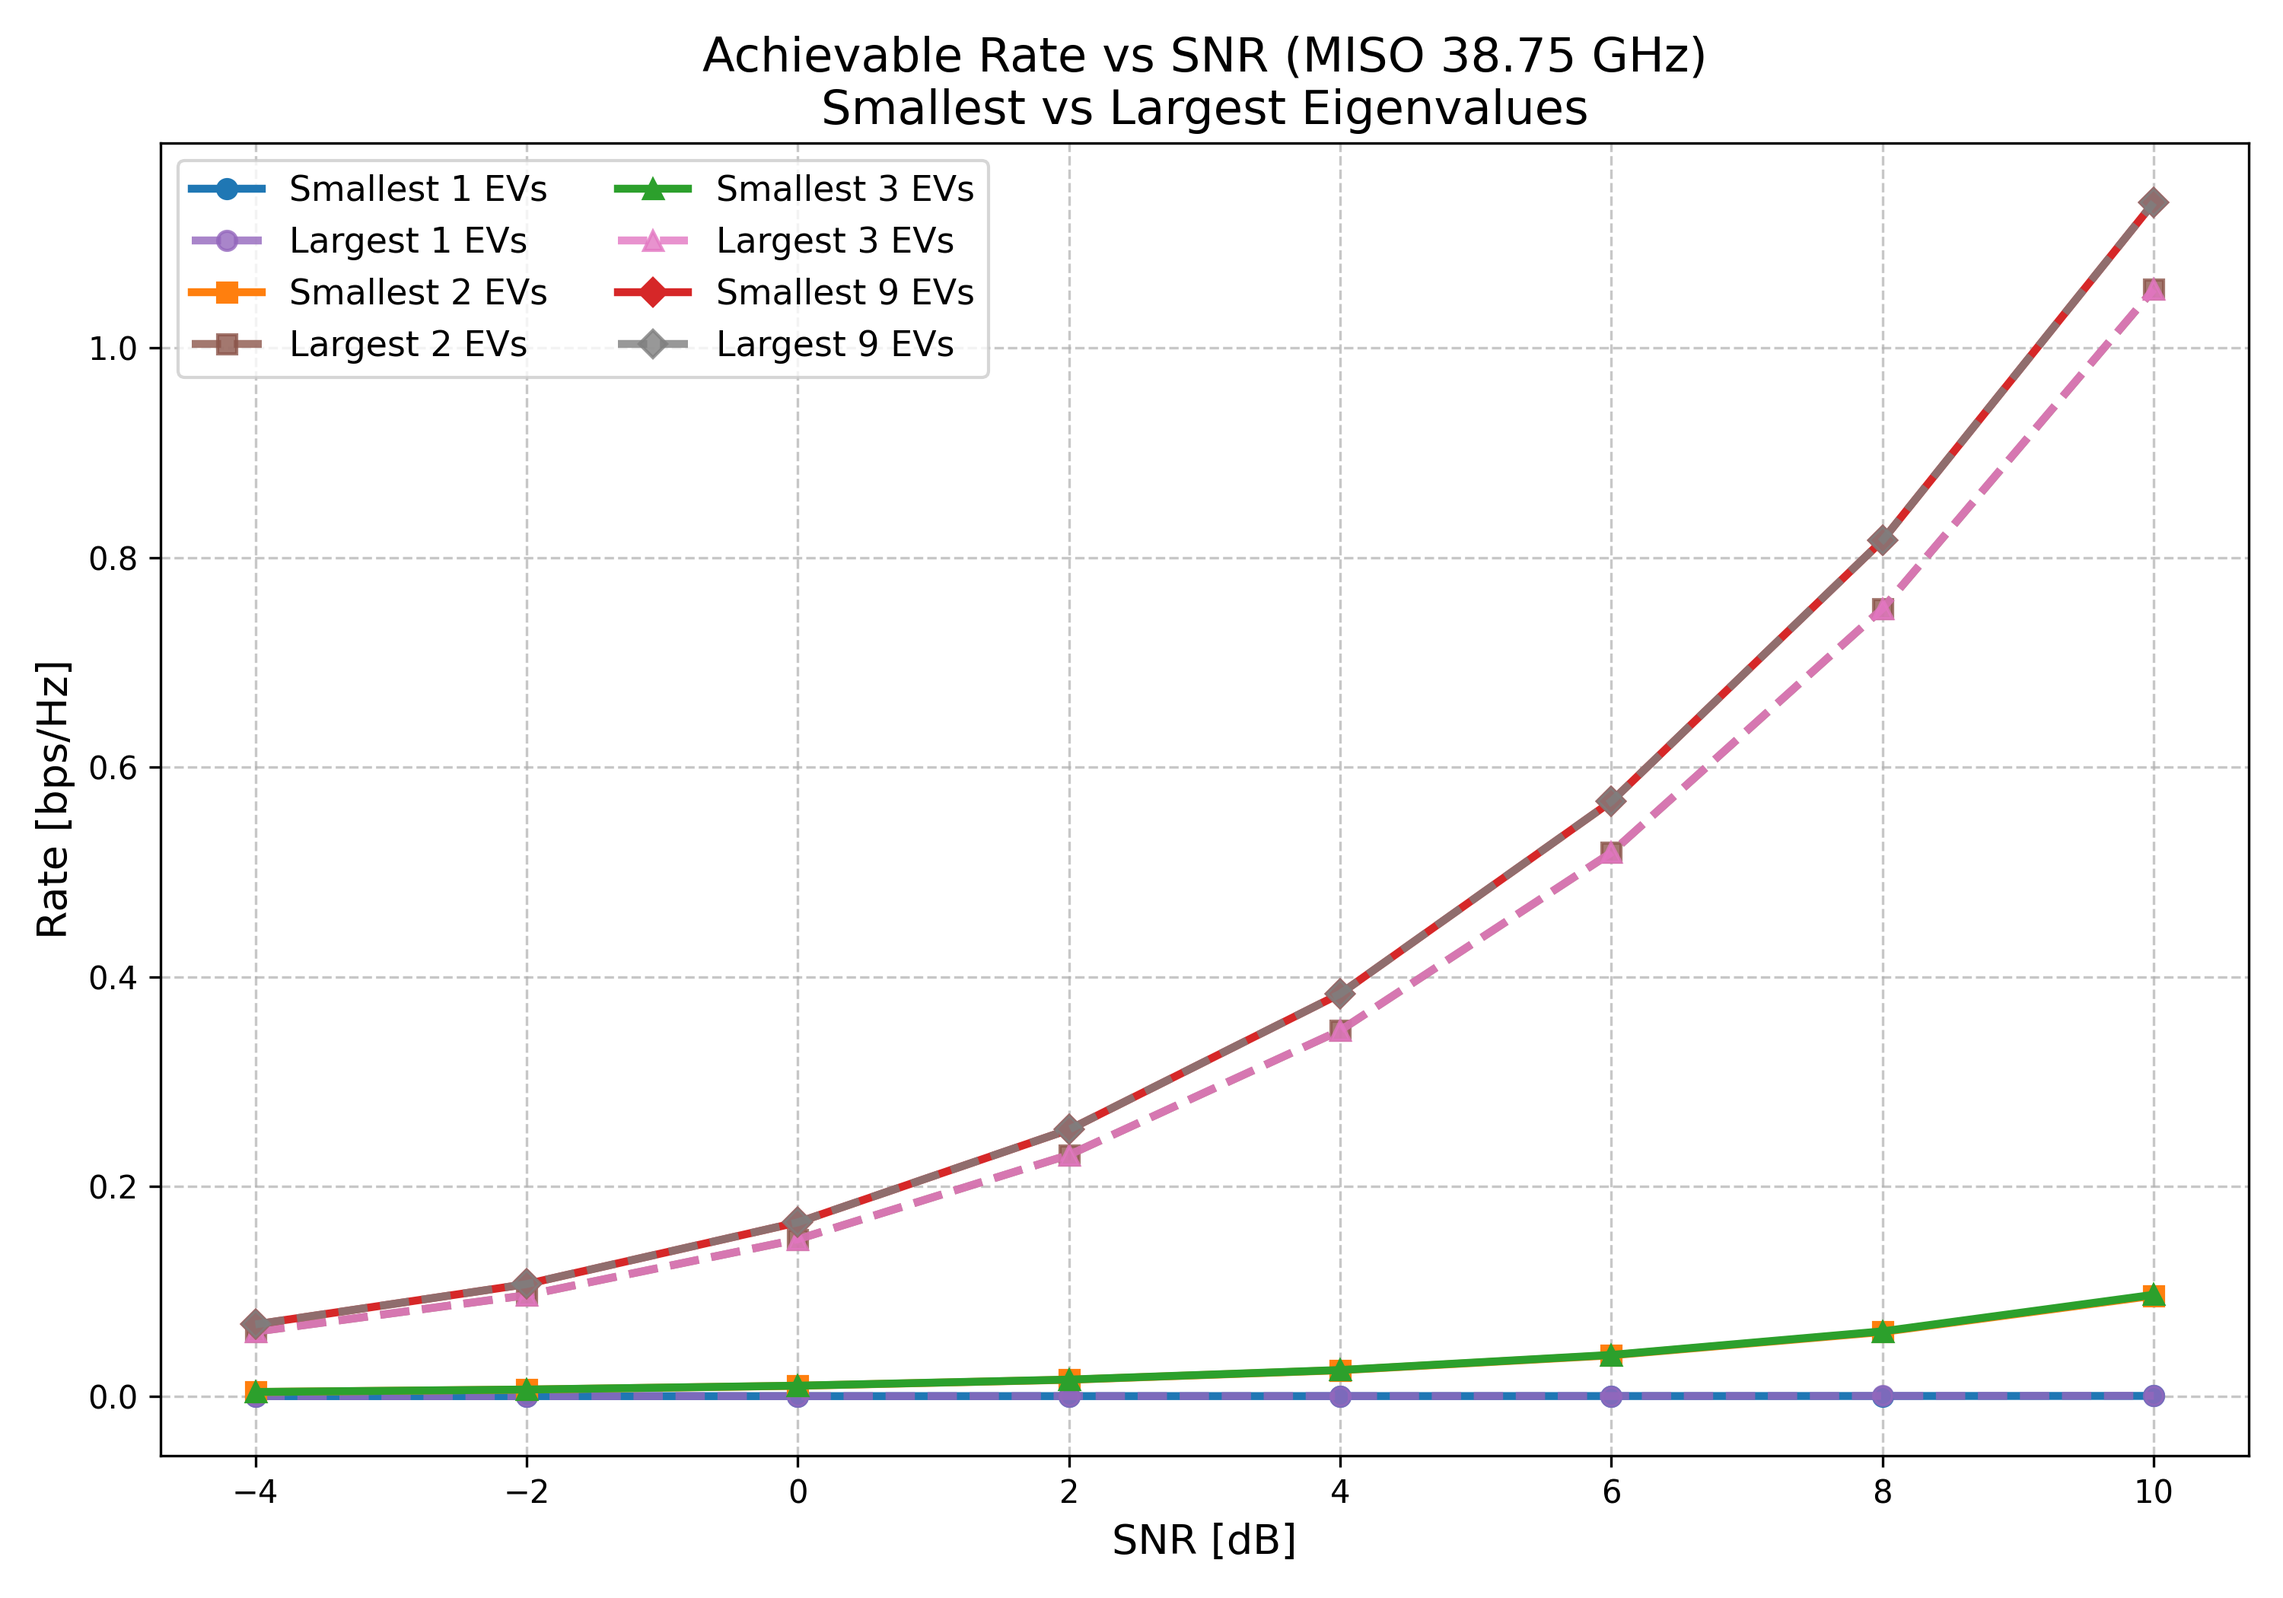
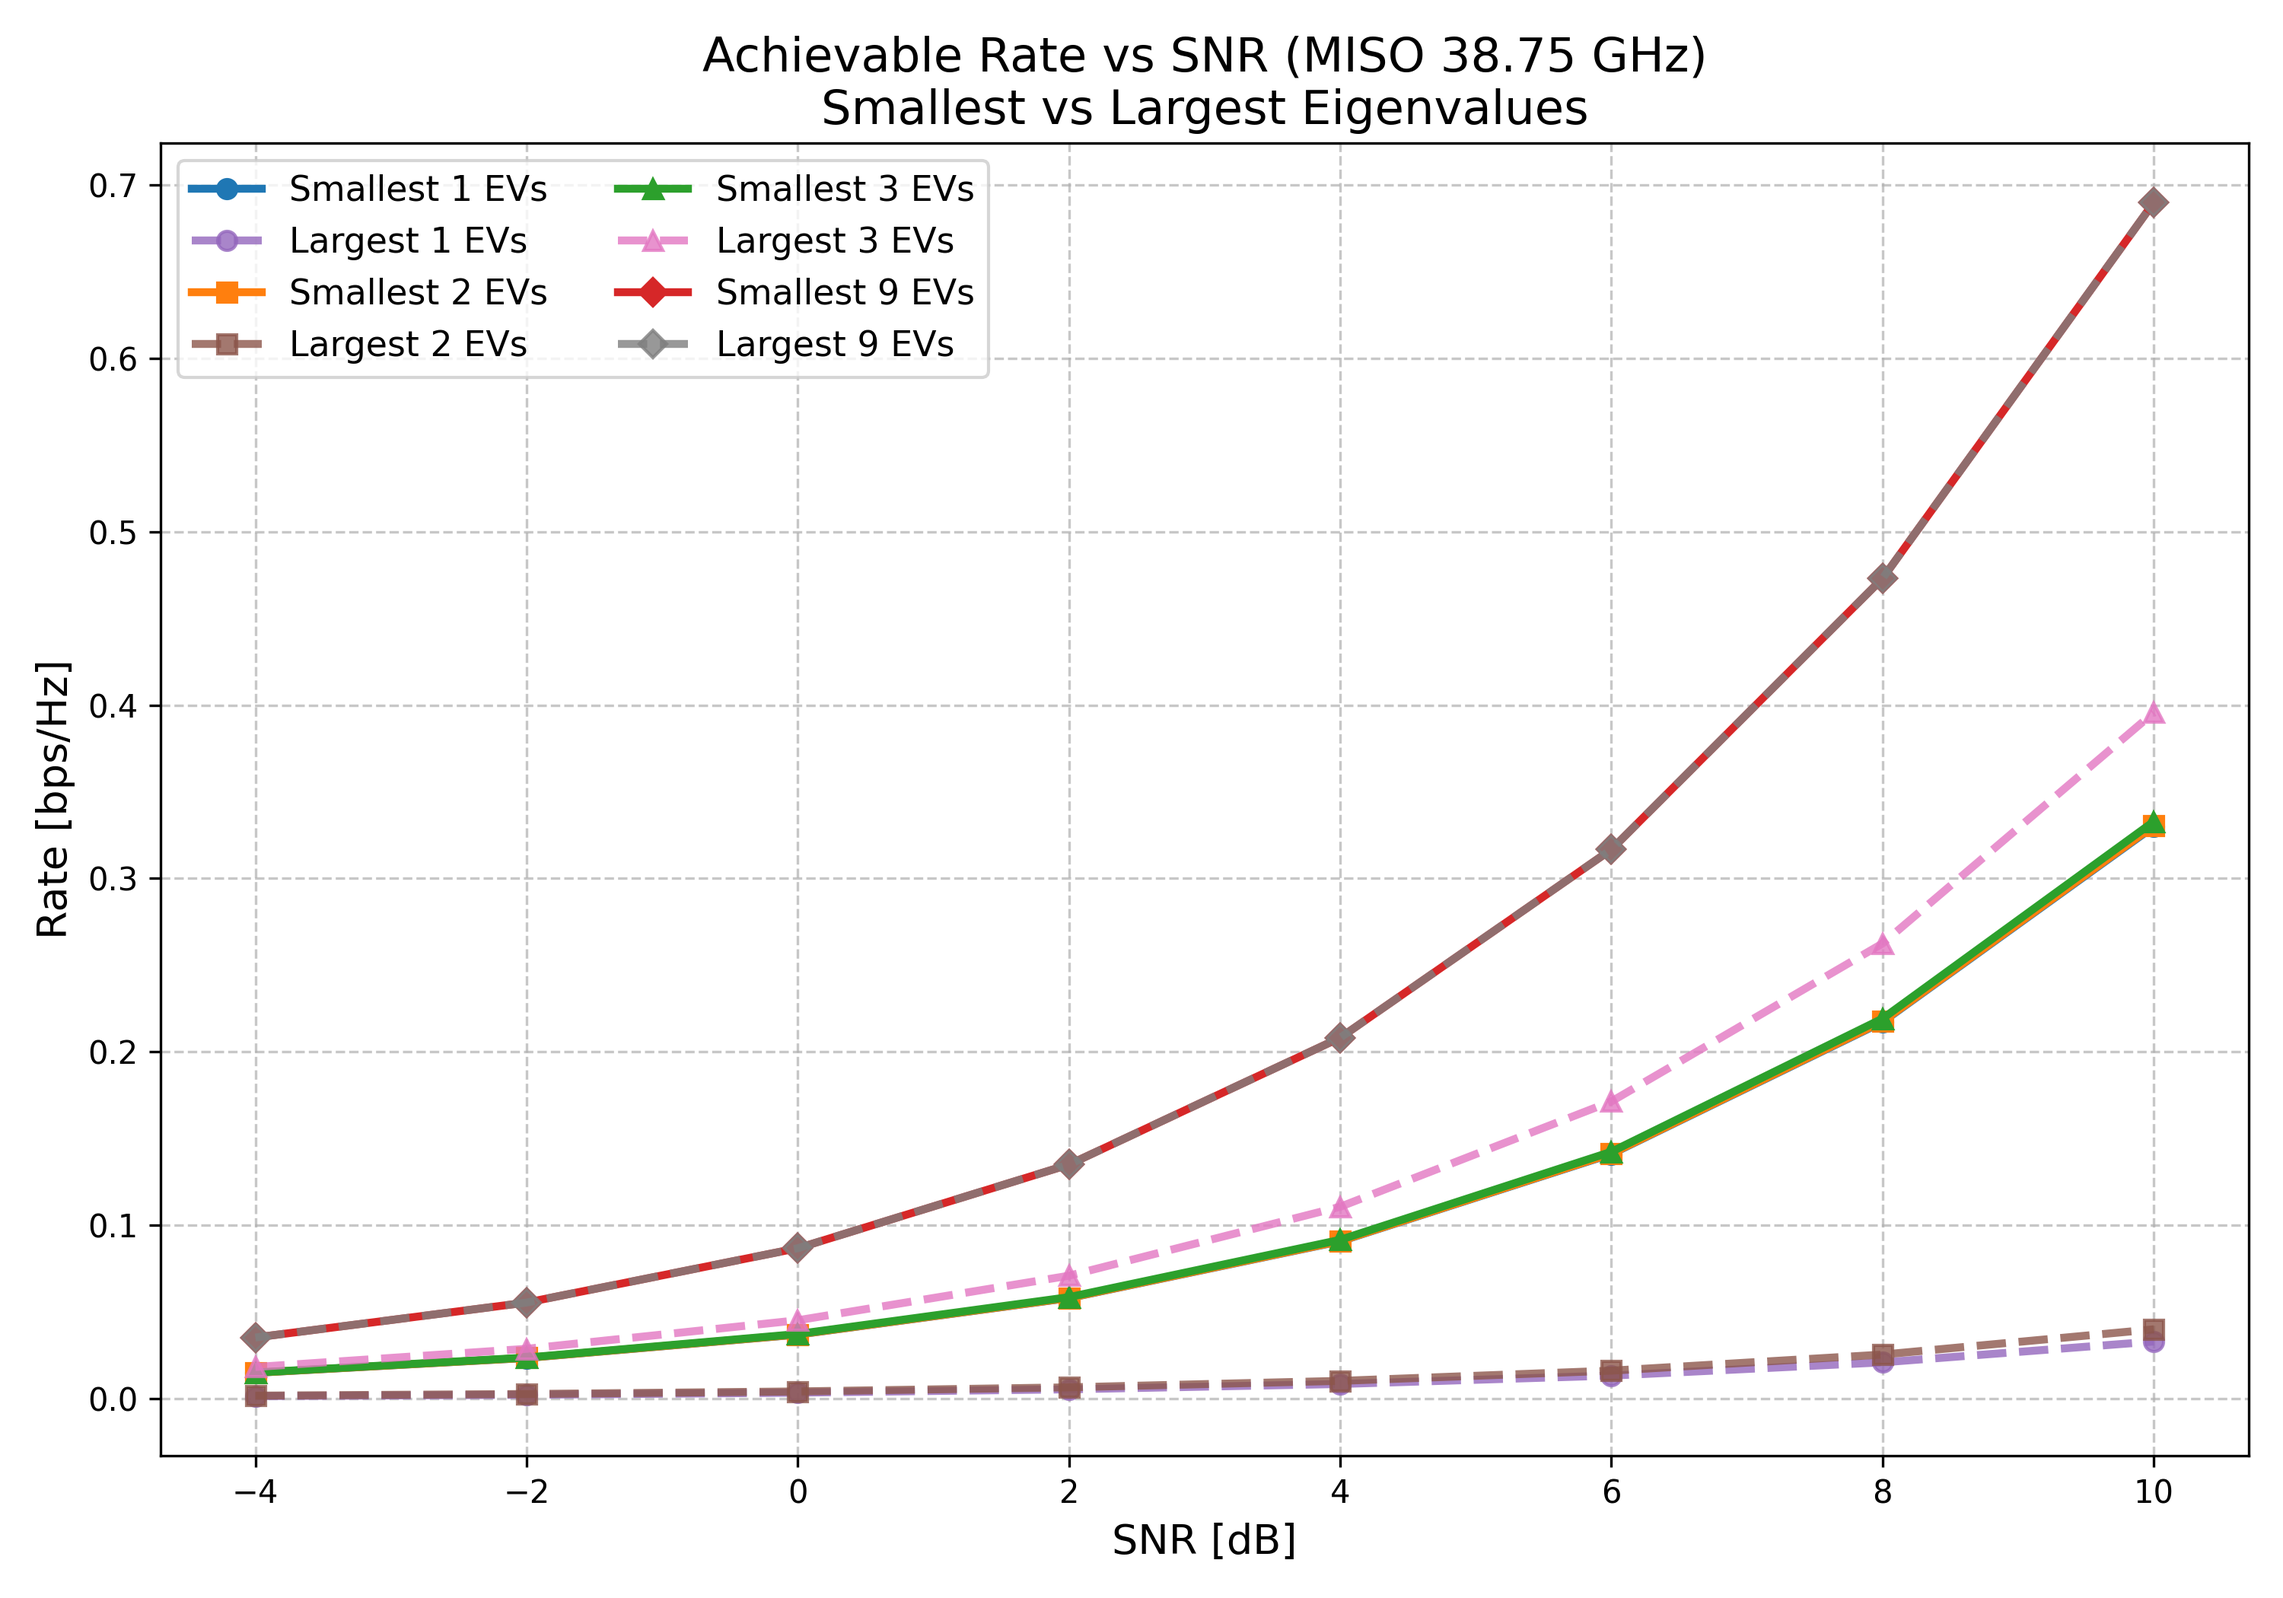
feat(UPA): adjust substrate overlapping, smallest & largest 3 eigenvalues still close to 0

diff --git a/small_scale_channel_tracking/data/ant_config_finetuning/plot_miso_smallest_vs_largest.py b/small_scale_channel_tracking/data/ant_config_finetuning/plot_miso_smallest_vs_largest.py
@@ -8,30 +8,29 @@ import matplotlib.pyplot as plt
 # ==========================================
 # 1. Configuration
 # ==========================================
-# Modify these if your file names use 2.06 GHz instead
 CENTER_FREQ_STR = "38.75"  
 CHANNEL_FREQ_GHZ = 39
 
-TX_DIM = [3, 3]
+TX_DIM = [7, 7]
 RX_DIM = [1, 1]
-N_T = TX_DIM[0] * TX_DIM[1] # 49
+N_T = TX_DIM[0] * TX_DIM[1] # Dynamically calculates 9 or 49
 
 Z0 = 50 
 SNR_dB_Range = np.arange(-4, 12, 2)
-RT_LIST = [1, 2, 3, 9]
+
+# Dynamically set the list to use 1, 2, 3, and the full array size (N_T)
+RT_LIST = [1, 2, 3, N_T]
 
 # --- File Paths ---
 SCRIPT_DIR = os.path.dirname(os.path.abspath(__file__))
 CHAN_DIR = os.path.join(SCRIPT_DIR, "..", "channel")
 
-Z_FILE_TX = os.path.join(SCRIPT_DIR, "Z_results", f"3x3_UPA_{CENTER_FREQ_STR}GHz_Z.mat")
-EIGEN_FILE_TX = os.path.join(SCRIPT_DIR, "eigen_result", f"3x3_UPA_{CENTER_FREQ_STR}GHz_eigen.mat")
+Z_FILE_TX = os.path.join(SCRIPT_DIR, "Z_results", f"{TX_DIM[0]}x{TX_DIM[1]}_UPA_{CENTER_FREQ_STR}GHz_Z.mat")
+EIGEN_FILE_TX = os.path.join(SCRIPT_DIR, "eigen_result", f"{TX_DIM[0]}x{TX_DIM[1]}_UPA_{CENTER_FREQ_STR}GHz_eigen.mat")
 
-# Adjust the channel file name depending on which script you used to generate the channel
-CHANNEL_FILE = os.path.join(CHAN_DIR, f"channel_data_SC_{CHANNEL_FREQ_GHZ}GHz_3x3Tx_1x1Rx_30000samples.mat")
-if not os.path.exists(CHANNEL_FILE):
-    # Fallback to the SC-prefixed 1,000,000 samples file if the 3k one isn't found
-    CHANNEL_FILE = os.path.join(CHAN_DIR, f"channel_data_SC_{CHANNEL_FREQ_GHZ}GHz_3x3Tx_1x1Rx_3000samples.mat")
+CHANNEL_FILE = os.path.join(CHAN_DIR, f"channel_data_SC_{CHANNEL_FREQ_GHZ}GHz_{TX_DIM[0]}x{TX_DIM[1]}Tx_1x1Rx_30000samples.mat")
+# if not os.path.exists(CHANNEL_FILE):
+#     CHANNEL_FILE = os.path.join(CHAN_DIR, f"channel_data_SC_{CHANNEL_FREQ_GHZ}GHz_{TX_DIM[0]}x{TX_DIM[1]}Tx_1x1Rx_3000samples.mat")
 
 # ==========================================
 # 2. Helper Functions
@@ -75,11 +74,11 @@ def main():
     with h5py.File(CHANNEL_FILE, 'r') as f:
         h_raw = f['H_samples'][()]
         H_complex = h_raw['real'] + 1j * h_raw['imag']
-    H_samples = np.transpose(H_complex, (2, 1, 0)) # Shape: (Samples, 1, 49)
+    H_samples = np.transpose(H_complex, (2, 1, 0)) 
     
     # 3. Project to the effective Physical Channel
     print("Computing Effective H_c...")
-    H_c_all = np.matmul(H_samples, C_T_sqrt) # Shape: (Samples, 1, 49)
+    H_c_all = np.matmul(H_samples, C_T_sqrt) 
     
     # ==========================================
     # 4. RANKING MODES BY RATE (At 10 dB SNR)
@@ -88,7 +87,7 @@ def main():
     single_mode_rates = np.zeros(N_T)
     
     for m in range(N_T):
-        u_m = U_T_full[:, m:m+1] # Single eigenvector
+        u_m = U_T_full[:, m:m+1] 
         H_tilde_m = np.matmul(H_c_all, u_m[None, :, :])
         single_mode_rates[m] = batch_capacity(H_tilde_m, snr_eval)
         
@@ -112,51 +111,65 @@ def main():
         snr_linear = 10**(snr_db / 10)
         
         for rt in RT_LIST:
-            # Smallest eigenvalues (front of U_T_sorted)
+            # Smallest eigenvalues 
             U_small = U_T_full[:, :rt]
             H_small = np.matmul(H_c_all, U_small[None, :, :])
             rates_smallest[rt][i] = batch_capacity(H_small, snr_linear)
             
-            # Largest eigenvalues (end of U_T_sorted)
+            # Largest eigenvalues 
             U_large = U_T_full[:, -rt:]
             H_large = np.matmul(H_c_all, U_large[None, :, :])
             rates_largest[rt][i] = batch_capacity(H_large, snr_linear)
 
     # ==========================================
-    # 6. PLOTTING
+    # 6. PLOTTING (Separated into Two Figures)
     # ==========================================
-    print("Generating Plot...")
-    plt.figure(figsize=(10, 7))
-    
-    colors_small = ['#1f77b4', '#ff7f0e', '#2ca02c', '#d62728'] # Blues, Oranges, Greens, Reds
-    colors_large = ['#9467bd', '#8c564b', '#e377c2', '#7f7f7f'] # Purples, Browns, Pinks, Grays
-    markers = ['o', 's', '^', 'D']
-    
-    for idx, rt in enumerate(RT_LIST):
-        # Plot Smallest
-        plt.plot(SNR_dB_Range, rates_smallest[rt], 
-                 color=colors_small[idx], marker=markers[idx], linestyle='-',
-                 label=f'Smallest {rt} EVs', linewidth=2.5)
-        # Plot Largest
-        plt.plot(SNR_dB_Range, rates_largest[rt], 
-                 color=colors_large[idx], marker=markers[idx], linestyle='--',
-                 label=f'Largest {rt} EVs', linewidth=2.5, alpha=0.8)
-                 
-    plt.title(f'Achievable Rate vs SNR (MISO {CENTER_FREQ_STR} GHz)\nSmallest vs Largest Eigenvalues', fontsize=15)
-    plt.xlabel('SNR [dB]', fontsize=13)
-    plt.ylabel('Rate [bps/Hz]', fontsize=13)
-    
-    # Legend sorted into two columns for clarity
-    plt.legend(fontsize=11, ncol=2, loc='upper left')
-    plt.grid(True, which='both', linestyle='--', alpha=0.7)
-    
+    print("Generating Plots...")
     output_dir = os.path.join(SCRIPT_DIR, "achievable_rate_plot")
     os.makedirs(output_dir, exist_ok=True)
-    save_path = os.path.join(output_dir, f"MISO_Rate_Small_vs_Large_EVs_{CENTER_FREQ_STR}GHz.png")
     
+    colors = ['#1f77b4', '#ff7f0e', '#2ca02c', '#d62728']
+    markers = ['o', 's', '^', 'D']
+    
+    # --- Figure 1: Smallest Eigenvalues ---
+    plt.figure(figsize=(8, 6))
+    for idx, rt in enumerate(RT_LIST):
+        label_str = f'Smallest {rt} EVs' if rt != N_T else f'Full Array ({N_T} EVs)'
+        plt.plot(SNR_dB_Range, rates_smallest[rt], 
+                 color=colors[idx], marker=markers[idx], linestyle='-',
+                 label=label_str, linewidth=2.5)
+                 
+    plt.title(f'Achievable Rate vs SNR (MISO {CENTER_FREQ_STR} GHz)\nSmallest Eigenvalues', fontsize=15)
+    plt.xlabel('SNR [dB]', fontsize=13)
+    plt.ylabel('Rate [bps/Hz]', fontsize=13)
+    plt.legend(fontsize=11, loc='upper left')
+    plt.grid(True, which='both', linestyle='--', alpha=0.7)
     plt.tight_layout()
-    plt.savefig(save_path, dpi=300)
-    print(f"Plot successfully saved to:\n{save_path}")
+    
+    save_path_small = os.path.join(output_dir, f"MISO_Rate_Smallest_EVs_{CENTER_FREQ_STR}GHz.png")
+    plt.savefig(save_path_small, dpi=300)
+    plt.close()
+    
+    # --- Figure 2: Largest Eigenvalues ---
+    plt.figure(figsize=(8, 6))
+    for idx, rt in enumerate(RT_LIST):
+        label_str = f'Largest {rt} EVs' if rt != N_T else f'Full Array ({N_T} EVs)'
+        plt.plot(SNR_dB_Range, rates_largest[rt], 
+                 color=colors[idx], marker=markers[idx], linestyle='--',
+                 label=label_str, linewidth=2.5)
+                 
+    plt.title(f'Achievable Rate vs SNR (MISO {CENTER_FREQ_STR} GHz)\nLargest Eigenvalues', fontsize=15)
+    plt.xlabel('SNR [dB]', fontsize=13)
+    plt.ylabel('Rate [bps/Hz]', fontsize=13)
+    plt.legend(fontsize=11, loc='upper left')
+    plt.grid(True, which='both', linestyle='--', alpha=0.7)
+    plt.tight_layout()
+    
+    save_path_large = os.path.join(output_dir, f"MISO_Rate_Largest_EVs_{CENTER_FREQ_STR}GHz.png")
+    plt.savefig(save_path_large, dpi=300)
+    plt.close()
+
+    print(f"Plots successfully saved to:\n1. {save_path_small}\n2. {save_path_large}")
 
 if __name__ == "__main__":
     main()

diff --git a/small_scale_channel_tracking/data/ant_config_finetuning/UPA_patch.m b/small_scale_channel_tracking/data/ant_config_finetuning/UPA_patch.m
@@ -6,7 +6,7 @@
 targetFreq = 38.75e9;
 % targetFreq = 2.0625e9;
 asf = 2;  % antenna_space = lambda / asf (e.g., lambda/2)
-n = 3;
+n = 7;
 grid_size = [n n]; % [Rows, Columns] 
 
 % Ensure directories exist
@@ -41,19 +41,25 @@ upa.Size = grid_size; % Set [Row, Col]
 upa.RowSpacing = lambda / asf;    % Spacing along Y-axis usually
 upa.ColumnSpacing = lambda / asf; % Spacing along X-axis usually
 
-% A. Resize Ground Plane LENGTH (X-Axis)
-num_rows = grid_size(2);
-margin_L = (p_element.GroundPlaneLength - p_element.Length) / 2;
-boardLen = (lambda/asf * (num_rows-1) + p_element.Length/asf*2 + margin_L*2) / num_rows;
-% B. Resize Ground Plane WIDTH (Y-Axis)
-num_cols = grid_size(1);
-margin_W = (p_element.GroundPlaneWidth - p_element.Width) / 2;
-boardWid = (lambda/asf * (num_cols-1) + p_element.Width/asf*2 + margin_W*2) / num_cols;
+% % A. Resize Ground Plane LENGTH (X-Axis)
+% num_rows = grid_size(2);
+% margin_L = (p_element.GroundPlaneLength - p_element.Length) / 2;
+% boardLen = (lambda/asf * (num_rows-1) + p_element.Length/asf*2 + margin_L*2) / num_rows;
+% % B. Resize Ground Plane WIDTH (Y-Axis)
+% num_cols = grid_size(1);
+% margin_W = (p_element.GroundPlaneWidth - p_element.Width) / 2;
+% boardWid = (lambda/asf * (num_cols-1) + p_element.Width/asf*2 + margin_W*2) / num_cols;
+% A perfectly tiled contiguous board with zero overlap
+boardLen = upa.RowSpacing;
+boardWid = upa.ColumnSpacing;
 % C. Apply to the Shared Element
 upa.Element.Substrate.Length = boardLen;
 upa.Element.GroundPlaneLength = boardLen;
 upa.Element.Substrate.Width = boardWid;
 upa.Element.GroundPlaneWidth = boardWid;
+
+fprintf("RowSpacing=%.6g  ColSpacing=%.6g\n", upa.RowSpacing, upa.ColumnSpacing)
+fprintf("boardWid =%.6g  boardLen =%.6g\n", boardWid, boardLen)
 
 % Save Layout to verify spacing
 if ~exist('plot_antenna_layout', 'dir'), mkdir('plot_antenna_layout'); end
@@ -72,10 +78,15 @@ close(fig);
 % Define a reasonable mesh size
 meshSize = lambda / 6; 
 mesh(upa, 'MaxEdgeLength', meshSize);
+% fprintf("Triangles: %d\n", size(m.Triangles,2));
+% fprintf("Tets:      %d\n", size(m.Tetrahedra,2));
+% fprintf("MaxEdge:   %.6g m\n", m.MaxEdgeLength);
+% fprintf("MinEdge:   %.6g m\n", m.MinEdgeLength);
 
 % 4. Calculate S-parameters
 disp(['Calculating S-parameters for UPA at ', num2str(targetFreq/1e9), ' GHz...']);
 tic;
+disp(datetime('now'))
 S_obj = sparameters(upa, targetFreq);
 
 % 5. Convert S-parameters to Z-parameters (Impedance Matrix)

diff --git a/small_scale_channel_tracking/data/ant_config_finetuning/Generalized_Eig_Decomp.m b/small_scale_channel_tracking/data/ant_config_finetuning/Generalized_Eig_Decomp.m
@@ -6,7 +6,7 @@ clear;
 % ==========================================
 freqs_GHz = [38.75];
 % freqs_GHz = [2.0625];
-grid_size = [3, 3];  % Currently testing 2x2
+grid_size = [7, 7];  % Currently testing 2x2
 asf = 2;             % Antenna spacing factor
 
 % Input/Output Directories
